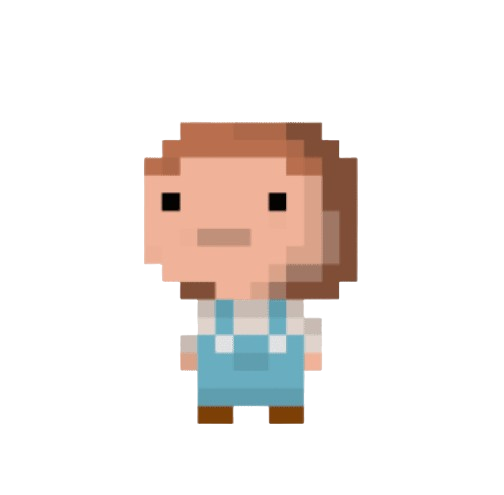
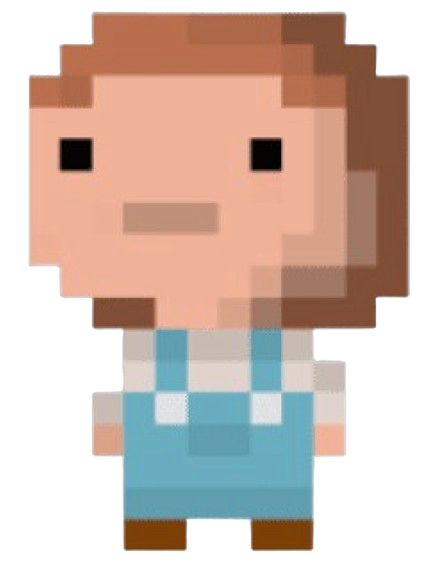
unit 13

diff --git a/project:D/kevin.java b/project:D/kevin.java
@@ -6,24 +6,56 @@ import processing.core.*;
 public class kevin{
     
             private PImage kevin;
+            private PImage kevinOpen;  
+        private int currentFrame;
+       private textBox currentTextBox;
     
         //constructor 
-    public kevin(PApplet p, float x, float y){
+    public kevin(PApplet p, float x, float y, textBox tb){
         
         this.p = p;
         this.x = x;
         this.y = y;
+        this.currentTextBox = tb;
         
         
         kevin = p.loadImage("kevin.png");
+        kevinOpen = p.loadImage("kevinOpen.png");
+       kevinOpen.resize(300, 300);
+      kevin.resize(300,300);
+         this.currentFrame = 0;
         
     }
     
-     public void display(){
-         
-         p.image(kevin, x, y);
-         
-     }
+      // Function to set the currently active textBox
+    public void setCurrentTextBox(textBox tb) {
+        this.currentTextBox = tb;
+    }
+    
+    // Function to check if the current textBox is done talking
+    public boolean isCurrentTextBoxDone() {
+        return currentTextBox.isDone();
+    }
+    
+public void display() {
+ // Calculate the frame index based on the frame count
+currentFrame = p.frameCount;
+
+// If the current frame is within the first x frames, and he isnt done talking display kevin with an open mouth
+if (currentFrame % 50 < 20 && !isCurrentTextBoxDone()) {
+     p.image(kevinOpen, x, y);
+} 
+//if hes done talking close his mouth
+else {
+     p.image(kevin, x, y);
+}
+
+    //double checking if everything works
+System.out.println("Kevin dimensions: " + kevin.width + " x " + kevin.height);
+System.out.println("KevinOpen dimensions: " + kevinOpen.width + " x " + kevinOpen.height);
+System.out.println("Frame count: " + p.frameCount);
+
+}
     //walk function
 
     
@@ -35,15 +67,12 @@ public class kevin{
     
             //if right button clicked
                 //walking right animation
-    
-    //speak kevin function
-        
-        //should this be in my main tab?  
+
         
         private PApplet p;
         private float x;
         private float y;
-
+       // private int currentFrame;
     
     
 }

diff --git a/unit13/AcademicClass.java b/unit13/AcademicClass.java
@@ -1,0 +1,61 @@
+import java.util.*;
+public class AcademicClass{
+    private static ArrayList<Student> comSciClass;
+    private static Teacher drkessner; 
+    
+    public AcademicClass(){
+       comSciClass = new ArrayList<Student>();
+    }
+    
+    public void setTeacher(String name, String subject){
+        drkessner = new Teacher("Dr Kessner", "Computer Science");
+    }
+
+    public void addStudent(String name, int favNumber){
+        Student student = new Student(name, favNumber);
+        comSciClass.add(student);
+    }
+    
+    public ArrayList<String> classInfo(){
+        ArrayList<String> classInfo = new ArrayList<>();
+        for(Student student: comSciClass){
+            classInfo.add(student.getName());
+        }
+        classInfo.add(drkessner.getName());
+        classInfo.add(drkessner.getSubject());
+        return classInfo;
+    }
+    
+    public ArrayList <String> favNumberSimilar(int n){
+        ArrayList<String> favNumberSimilar = new ArrayList<>();
+        for(Student student: comSciClass){
+            if(student.getFavNumber() == n){
+                favNumberSimilar.add(student.getName());
+            }
+        }return favNumberSimilar;
+    }
+    
+    public ArrayList<String> oddNumber(){
+        ArrayList <String> oddNumber = new ArrayList<>();
+        for(Student student: comSciClass){
+            if(student.getFavNumber() %2 != 0){
+                oddNumber.add(student.getName());
+            }
+        }return oddNumber;
+    }
+      public static void main(String[] args){
+        AcademicClass academicClass = new AcademicClass();
+academicClass.addStudent("Nina", 4);
+        academicClass.addStudent("Nola", 4);
+        academicClass.addStudent("Mia", 6);
+        academicClass.addStudent("Jane", 7);
+        academicClass.addStudent("Wynter", 8);
+        academicClass.setTeacher("Dr Kessner", "Computer Science");
+           System.out.println(academicClass.classInfo());
+          System.out.println(academicClass.favNumberSimilar(4));
+           System.out.println(academicClass.oddNumber());
+      }
+}
+
+    
+    

diff --git a/unit13/ShapeCollection.java b/unit13/ShapeCollection.java
@@ -1,0 +1,57 @@
+import java.util.*;
+
+public class ShapeCollection{
+    private static ArrayList<Shape> shapes;
+    public ShapeCollection(){
+        shapes = new ArrayList<Shape>();
+    }
+    public void addShape(String name, int numberOfSides){
+        Shape shape = new Shape(name, numberOfSides);
+        shapes.add(shape);
+    }
+    
+    public int numberOfSides(String name){
+        for(Shape shape: shapes){
+            if(shape.getName().equals(name)){  //if the shape we are getting matches a name of an existing shape
+                return shape.getNumberOfSides();
+            }
+    } return -1; //no shape found
+    }
+    
+    public double averageNumberOfSides() {
+        if (shapes.size() == 0) {
+            return -1; // Return -1 if no shapes in collection
+        }
+
+        int totalSides = 0;
+        for (Shape shape : shapes) {
+            totalSides += shape.getNumberOfSides();
+        }
+
+        return (double) totalSides / shapes.size();
+    }
+    
+
+    public ArrayList<String> evenSides() {
+    ArrayList<String> evenSidedShapes = new ArrayList<>();
+    for (Shape shape : shapes) {
+        if (shape.getNumberOfSides() % 2 == 0) {
+            evenSidedShapes.add(shape.getName()); //so i dont get that weird error and instead i jsut get the shape name
+        }
+    }
+    return evenSidedShapes;
+}
+    
+    
+    public static void main(String[] args){
+        ShapeCollection shapes = new ShapeCollection();
+        shapes.addShape("rectangle", 4);
+        shapes.addShape("circle", 0);
+        shapes.addShape("triangle", 3);
+        
+  System.out.println("Number of sides of rectangle: " + shapes.numberOfSides("rectangle"));
+ System.out.println("Number of sides of square: " + shapes.numberOfSides("square"));
+System.out.println("Average number of sides: " + shapes.averageNumberOfSides());
+System.out.println("Shapes with even:" + shapes.evenSides());
+    }
+}

diff --git a/project:D/scene2.java b/project:D/scene2.java
@@ -7,14 +7,15 @@ public class scene2 implements Scene{
         this.w = w;
         this.h = h;
         scene2State = 1;
-        groceryBackground = p.loadImage("grocery2.jpg");
-        groceryBackground.resize(w+10,h);
+        groceryBackground = p.loadImage("grocery.png");
+        groceryBackground.resize(w+50,h+50);
         //initializing kevin
-        kevin2 = new kevin(p, w/2, h/2);
-        textBox1 = new textBox(p, w/4+75, h/4+50, 300, 200, "WELCOME TO THE GROCERY STORE!");
+        textBox1 = new textBox(p, w/4+75, h/2+50, 300, 200, "WELCOME TO THE FOOD MARKET!");
+        kevin2 = new kevin(p, w/2, h-220, textBox1);
     }
     
     public void display(){
+        p.background(255);
         p.imageMode(p.CENTER);
         p.image(groceryBackground, w/2,h/2);
         textBox1.display();
@@ -38,7 +39,7 @@ public class scene2 implements Scene{
     private int scene2State;
     private int w;
     private int h;
-    private PImage groceryBackground;
+   private PImage groceryBackground;
     private kevin kevin2;
     private textBox textBox1;
     

diff --git a/project:D/scene1.java b/project:D/scene1.java
@@ -21,7 +21,7 @@ public class scene1 implements Scene{
      textBox3 = new textBox(p, w/4+50, h/4+50, 700,400, "HELP ME GO ABOUT MY DAY MAKING EARTH-CONCIOUS DECISIONS! IF YOU DO WELL, YOU WILL INCREASE YOUR EARTH BUCKS!");
         
      //initializing kevin
-    kevin1 = new kevin(p, w/2+100, h/2+100);
+    kevin1 = new kevin(p, w/2+100, h-300, textBox1);
     
     }
     
@@ -70,9 +70,12 @@ else if(scene1State == 3){
         
 if(p.dist(p.mouseX, p.mouseY,w/4-100, h-300)<= 50 && (scene1State == 1) && textBox1.isDone()){
 scene1State = 2;
+    //update the current text box kevin is on
+kevin1.setCurrentTextBox(textBox2);
 }
 else if(p.dist(p.mouseX, p.mouseY,w/4-100,h-300)<= 50 && (scene1State == 2) && textBox2.isDone()){
 scene1State = 3;
+kevin1.setCurrentTextBox(textBox3);
 }else if (textBox3.isDone()){
     scene1State =4;
 }

diff --git a/unit13/Shape.java b/unit13/Shape.java
@@ -1,0 +1,17 @@
+//shape class
+
+public class Shape{
+
+    //constructor 
+    public Shape (String name, int numberOfSides){
+        this.name = name;
+        this.numberOfSides = numberOfSides;
+    }
+    
+    //public accesor functions 
+    public String getName(){return name;}
+    public int getNumberOfSides(){return numberOfSides;}
+    
+    private String name;
+    private int numberOfSides;
+}

diff --git a/project:D/earth_io.java b/project:D/earth_io.java
@@ -2,7 +2,7 @@
 
 import processing.core.*;
 
-import gifAnimation.*;
+//import gifAnimation.*;
 
 
 public class earth_io extends PApplet 
@@ -67,7 +67,6 @@ if(dist(mouseX, mouseY, width/2, height/2) <= imageRadius && gameState == "start
 gameState = "scene1"; //go to part 1
 
 }
-
 scene1.mousePressed();
 System.out.println(scene1.returnvar());
 

diff --git a/project:D/textBox.java b/project:D/textBox.java
@@ -22,7 +22,7 @@ public class textBox{
             
             //current index variable at 0
             
-            if(p.frameCount%==2 && current<text1.length())
+            if(p.frameCount%3==0 && current<text1.length())
                 current++;
             if(current >= text1.length()){
                 isDone = true;

diff --git a/unit13/Student.java b/unit13/Student.java
@@ -1,0 +1,12 @@
+public class Student{
+    
+    Student(String name, int favNumber){
+        this.name = name;
+        this.favNumber = favNumber;
+    }
+    public String getName(){return name;}
+    public int getFavNumber(){return favNumber;}
+    
+    private String name;
+    private int favNumber;
+}

diff --git a/unit13/Teacher.java b/unit13/Teacher.java
@@ -1,0 +1,11 @@
+public class Teacher{
+    Teacher(String name, String subject){
+        this.name = name;
+        this.subject = subject;
+    }
+    public String getName(){return name;}
+    public String getSubject(){return subject;}
+    
+    private String name;
+    private String subject;
+}
